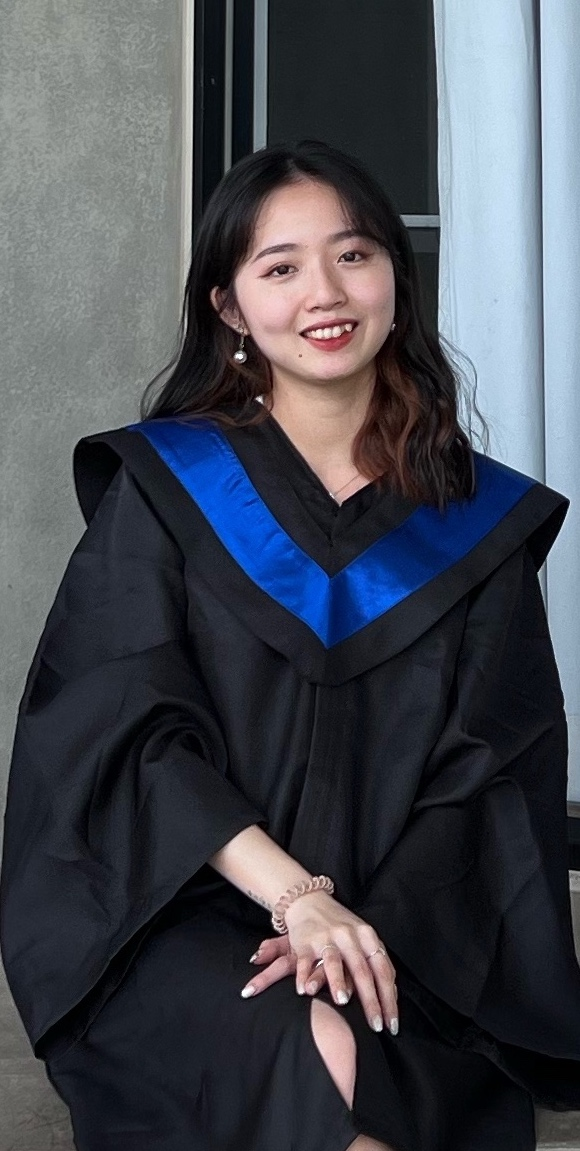
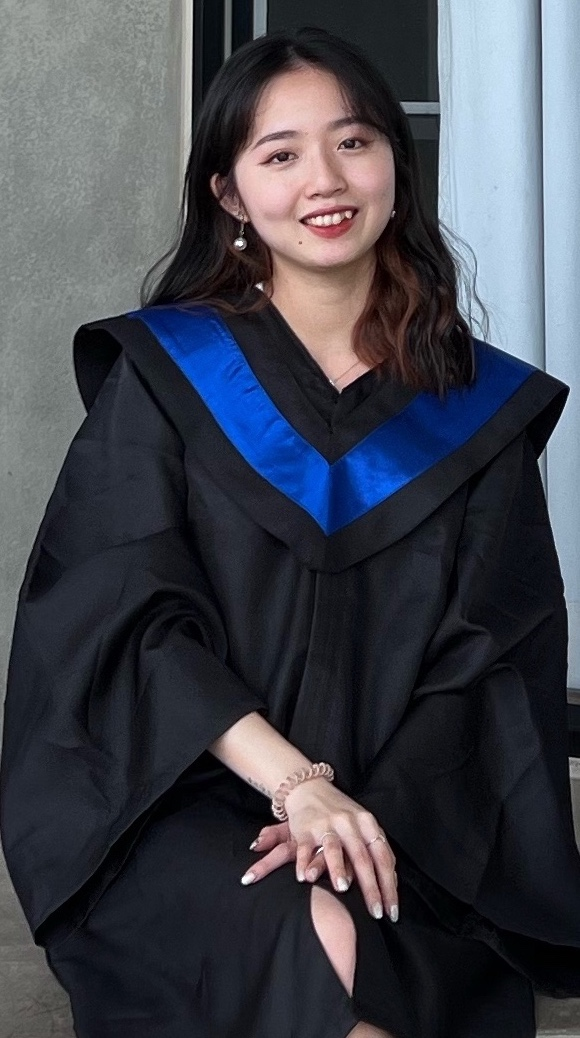
fit: adjust mobile image

diff --git a/src/components/Header/Header.module.sass b/src/components/Header/Header.module.sass
@@ -3,7 +3,7 @@
   // height: 90vh
   background-image: url("../../../public/image/user-image-mobile.jpg")
   background-size: auto
-  background-position: 60% 20% //FIXME:
+  background-position: 60% 0% //FIXME:
   background-attachment: fixed
   display: flex
   align-items: center
